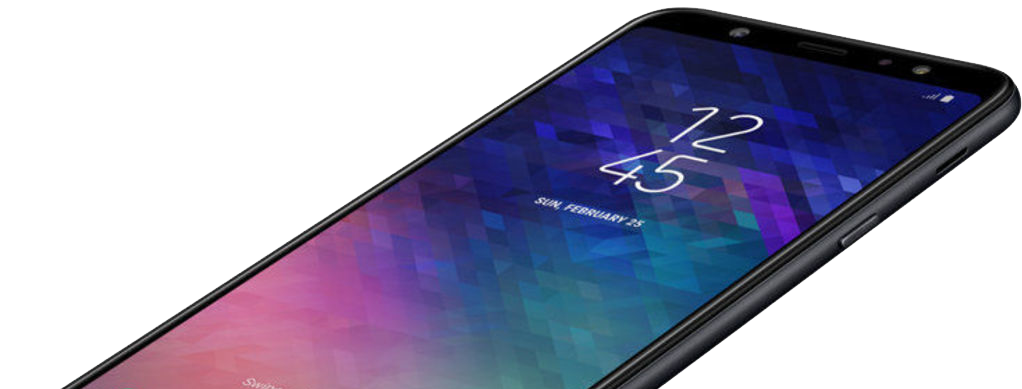
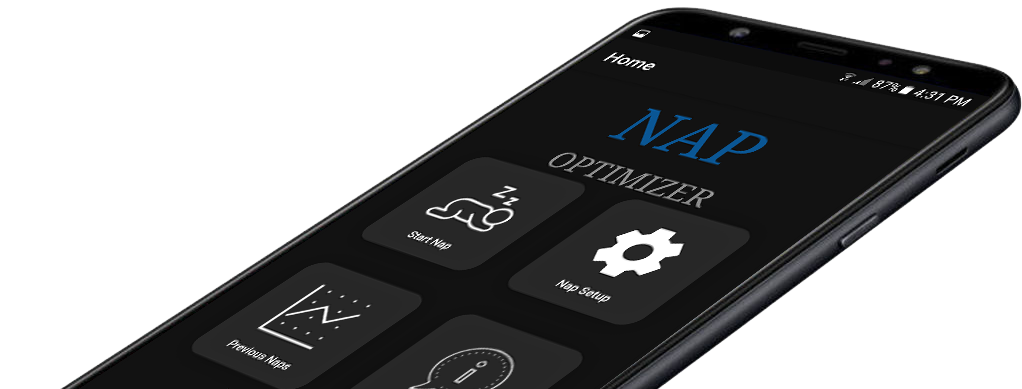
Adding Instructions
Adding Instructions and Adding some Licinsing Comments

diff --git a/index.html b/index.html
@@ -66,8 +66,39 @@
       <div class="row">
         <div class="col-lg-8 mx-auto">
           <h2 class="text-white mb-4">How To Download and Install the App</h2>
-          <p class="text-white-50">[INSERT INSTALL GUIDE]</p>
-        </div>
+          <p class="text-white-50">
+		  
+		  <ol>
+			<li class="text-white mb-4"> 
+				Step One, Ensure that you have the "Download from Unknown Source" Setting enabled. This can be found in the Security Tab of your Settings or you can search "Unknown Source" to find on your Settings
+				<br><br>
+				<img src="img/Step11.png" class="img-fluid" alt="">
+			</li>			
+			<hr><br>
+			
+			<li class="text-white mb-4"> 
+				Step Two, Press the Link below and Download the Lastest Release of our app.
+				<br><br>
+				<img src="img/Step21.png" class="img-fluid" alt="">
+			</li>			
+			<hr><br>
+			
+			<li class="text-white mb-4"> 
+				Step Three, Go to your Downloads Folder and Click on the "App-Release.apk"
+				<br><br>
+				<img src="img/Step31.png" class="img-fluid" alt="">
+			</li>			
+			<hr><br>
+			
+			<li class="text-white mb-4"> 
+				Step Four, Confirm the installation and wait for the App to be be install. Once completed you should have the application installed and ready to go!
+				<br><br>
+				<img src="img/Step41.png" class="img-fluid" alt="">
+			</li>			
+			<hr>
+		</ol>
+		<br><br><br><br><br><br>
+       </div>
       </div>
       <img src="img/ipad.png" class="img-fluid" alt="">
     </div>
@@ -103,7 +134,7 @@
           <div class="card py-4 h-100">
             <div class="card-body text-center">
               <i class="fas fa-map-marked-alt text-primary mb-2"></i>
-              <h4 class="text-uppercase m-0">R&D Team</h4>
+              <h4 class="text-uppercase m-0">Development Team</h4>
               <hr class="my-4">
               <div class="small text-black-50">Tim Proctor, <br> James Stewart, <br> Noah Te Ao, <br> Adrian Liow</div>
             </div>
@@ -127,10 +158,11 @@
           <div class="card py-4 h-100">
             <div class="card-body text-center">
               <i class="fab fa-github text-primary mb-2"></i>
-              <h4 class="text-uppercase m-0">GitHub</h4>
+              <h4 class="text-uppercase m-0">GitHub Repository</h4>
               <hr class="my-4">
               <div class="small text-black-50">			  
-                <a href="https://github.com/TimProctorAUT/NapApp">NapApp Project GitHub</a>
+                <a href="https://github.com/TimProctorAUT/NapApp">Nap Optimizer Mobile App Repository</a><br><br>
+                <a href="https://github.com/TimProctorAUT/NapOptimizer_WebApp">Nap Optimizer Webpage Repository</a>
 			  </div>
             </div>
           </div>
@@ -143,8 +175,7 @@
   <!-- Footer -->
   <footer class="bg-black small text-center text-white-50">
     <div class="container">
-      Copyright &copy; LifeSpan Trust, 2019 <br>
-	  Template Named "Grayscale" 
+      Webpage Template Copyright 2013-2019 Blackrock Digital LLC. Code released under the [MIT](https://github.com/BlackrockDigital/startbootstrap-grayscale/blob/gh-pages/LICENSE) license.
     </div>
   </footer>
 

diff --git a/css/grayscale.css b/css/grayscale.css
@@ -3,7 +3,6 @@
  * Copyright 2013-2019 Start Bootstrap
  * Licensed under MIT (https://github.com/BlackrockDigital/startbootstrap-grayscale/blob/master/LICENSE)
  */
-
 #mainNav {
   min-height: 56px;
   background-color: #fff;
